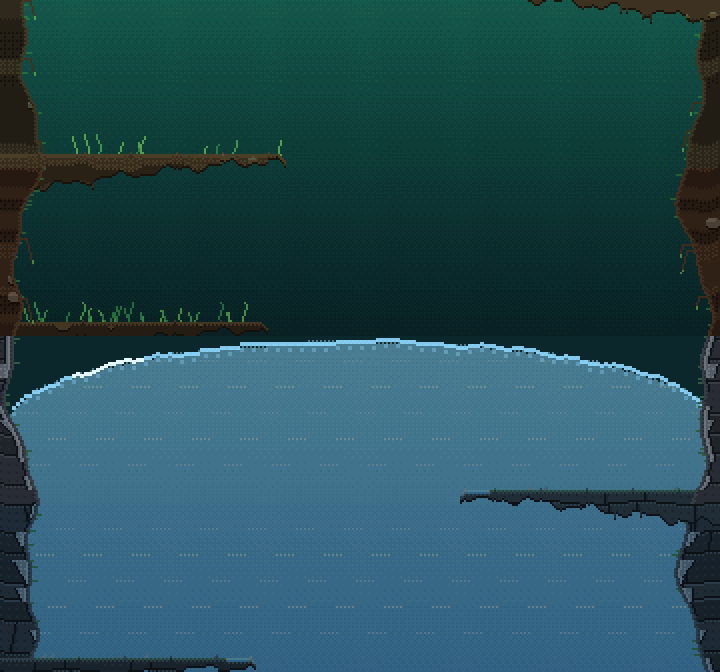
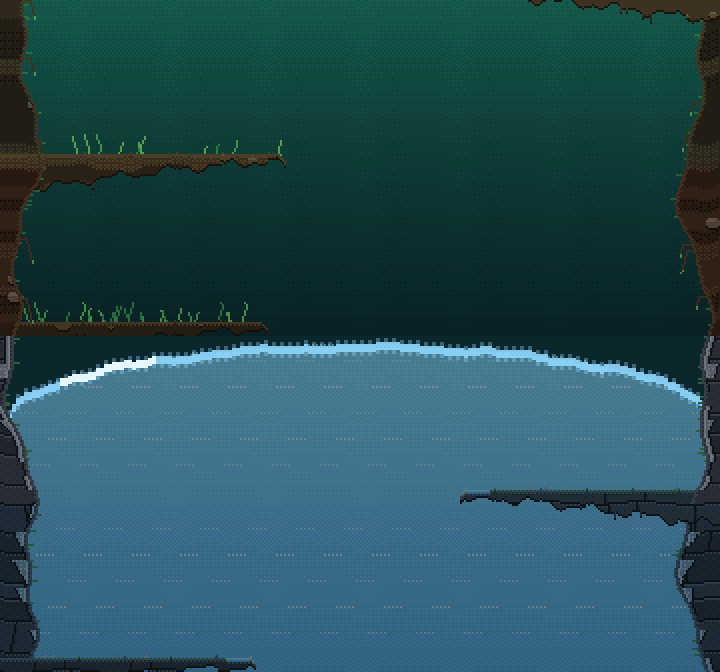
feat(da): une membrane plus épaisse
Deux rangées de points (quatre pixels), bordées de part et d'autre d'une lueur pâle ; un reflet
plus large. Elle descend un peu moins contre les parois (36 px de creux au lieu de 40) et se
tient à 5 px sous la jonction au milieu, pour que sa lueur reste dans le seuil.

Claude-Session: https://claude.ai/code/session_01EphqWZfFFHYkEC2FH7edg3

Changed region(s): [[0.0306, 0.5, 0.9778, 0.5938], [0.0, 0.5938, 0.0306, 0.625]]

diff --git a/Assets/IdlePond/Jeu/Scene/Lieux.cs b/Assets/IdlePond/Jeu/Scene/Lieux.cs
@@ -67,8 +67,8 @@ namespace IdlePond.Jeu.Scene
         /// d'au-dessus ; la scène la trace, vivante, par-dessus. Elle reste entière : on la
         /// traverse, on ne la déchire pas.
         /// </summary>
-        public const int PROFONDEUR_AU_MILIEU = 3;
-        public const int CREUX_DE_LA_MEMBRANE = 40;
+        public const int PROFONDEUR_AU_MILIEU = 5;
+        public const int CREUX_DE_LA_MEMBRANE = 36;
         public const int RAYON_DE_LA_MEMBRANE = 176;
         public const int PAS_DE_LA_MEMBRANE = 2;
         /// Le temps que met un reflet à traverser la membrane, d'une paroi à l'autre.
@@ -87,10 +87,11 @@ namespace IdlePond.Jeu.Scene
             (int)Math.Round(0.8 * Math.Sin(2 * Math.PI * x / 64.0 - secondes * 1.7) + 0.5 * Math.Sin(2 * Math.PI * x / 23.0 + secondes * 2.3));
 
         /// <summary>
-        /// Les points de la membrane du lieu qui s'ouvre au `palier`, à `secondes` : un point de
-        /// deux pixels tous les `PAS_DE_LA_MEMBRANE`, sur toute la largeur du champ (les parois
-        /// passent devant). `Couleur` : 0 le reflet d'écume qui la parcourt, 1 la membrane, à la
-        /// couleur du mana du lieu ; 2 la lueur plus pâle qui la double dessous, un point sur trois.
+        /// Les points de la membrane du lieu qui s'ouvre au `palier`, à `secondes` : deux rangées
+        /// de points de deux pixels tous les `PAS_DE_LA_MEMBRANE` — quatre pixels d'épaisseur —,
+        /// sur toute la largeur du champ (les parois passent devant). `Couleur` : 0 le reflet
+        /// d'écume qui la parcourt, 1 la membrane, à la couleur du mana du lieu ; 2 la lueur plus
+        /// pâle qui la borde de part et d'autre, un point sur deux.
         /// </summary>
         public static IReadOnlyList<PointDeGerbe> Membrane(int palier, double secondes)
         {
@@ -101,8 +102,12 @@ namespace IdlePond.Jeu.Scene
             for (var x = 0; x < Gabarits.LARGEUR_VISEE; x += PAS_DE_LA_MEMBRANE)
             {
                 var y = jonction - (int)Math.Round(CreuxDeLaMembrane(x)) - OndeDeLaMembrane(x, secondes) - 1;
-                points.Add(new PointDeGerbe(x, y, Math.Abs(x - reflet) < 18 ? 0 : 1));
-                if (x % (3 * PAS_DE_LA_MEMBRANE) == 0) points.Add(new PointDeGerbe(x, y - 3, 2));
+                var couleur = Math.Abs(x - reflet) < 24 ? 0 : 1;
+                points.Add(new PointDeGerbe(x, y, couleur));
+                points.Add(new PointDeGerbe(x, y - 2, couleur));
+                if (x % (2 * PAS_DE_LA_MEMBRANE) != 0) continue;
+                points.Add(new PointDeGerbe(x, y + 2, 2));
+                points.Add(new PointDeGerbe(x, y - 4, 2));
             }
             return points;
         }

diff --git a/Assets/IdlePond/Tests/PerceeTests.cs b/Assets/IdlePond/Tests/PerceeTests.cs
@@ -117,16 +117,16 @@ namespace IdlePond.Tests
             {
                 var points = Lieux.Membrane(6, t);
                 var ligne = points.Where(q => q.Couleur != 2).ToList();
-                // Entière : un point tous les deux pixels, d'un bord du champ à l'autre.
-                Assert.That(ligne, Has.Count.EqualTo(Gabarits.LARGEUR_VISEE / Lieux.PAS_DE_LA_MEMBRANE));
+                // Entière et épaisse : deux rangées, un point tous les deux pixels, d'un bord du champ à l'autre.
+                Assert.That(ligne, Has.Count.EqualTo(2 * Gabarits.LARGEUR_VISEE / Lieux.PAS_DE_LA_MEMBRANE));
                 foreach (var p in points)
                 {
                     Assert.That(p.Couleur, Is.InRange(0, 2));
                     Assert.That(p.Y + 1, Is.LessThan(jonction), "sous la jonction");
                     Assert.That(p.Y, Is.GreaterThanOrEqualTo(jonction - Lieux.HAUTEUR_DU_SEUIL), "dans le seuil");
-                    // Elle ondule d'un pixel au plus autour de son arc.
+                    // Elle ondule d'un pixel au plus autour de son arc (sa seconde rangée deux pixels dessous).
                     if (p.Couleur != 2)
-                        Assert.That(System.Math.Abs(jonction - 1 - p.Y - System.Math.Round(Lieux.CreuxDeLaMembrane(p.X))), Is.LessThanOrEqualTo(1));
+                        Assert.That(jonction - 1 - p.Y - System.Math.Round(Lieux.CreuxDeLaMembrane(p.X)), Is.InRange(-1.0, 3.0));
                 }
                 foreach (var reflet in ligne.Where(r => r.Couleur == 0)) reflets.Add(reflet.X);
             }

diff --git a/docs/ROADMAP.md b/docs/ROADMAP.md
@@ -161,7 +161,7 @@ aussi (spec `2026-10-07-ecran-mobile-mare-au-centre-design.md`). Restent :
   tout son premier palier à l'eau d'au-dessus, sur une courbe douce. Aperçu : `docs/da/apercu-fondu-et-bulle.png`.
   **La cassure est une membrane de mana** (décidé par l'auteur le 2026-11-26) : ce qui sépare le
   Gour de la Noue est une barrière tissée du Courant, bombée d'une paroi à l'autre comme le dessus
-  d'une bulle (`Lieux.Membrane`, pur et testé). Elle ondule d'un pixel, un reflet d'écume la
+  d'une bulle (`Lieux.Membrane`, pur et testé). Épaisse de quatre pixels et bordée d'une lueur, elle ondule d'un pixel, un reflet d'écume la
   parcourt, elle luit sans éclairage, en bleu de Courant ; l'eau sombre de la Noue appuie dessus
   dans les coins (`seuil.png`). Elle reste entière : plus de brèche ni de cascade, la percée
   jaillit contre elle. Aperçus : `docs/da/apercu-membrane.png` et `.gif`. Écrit hors de l'éditeur,
